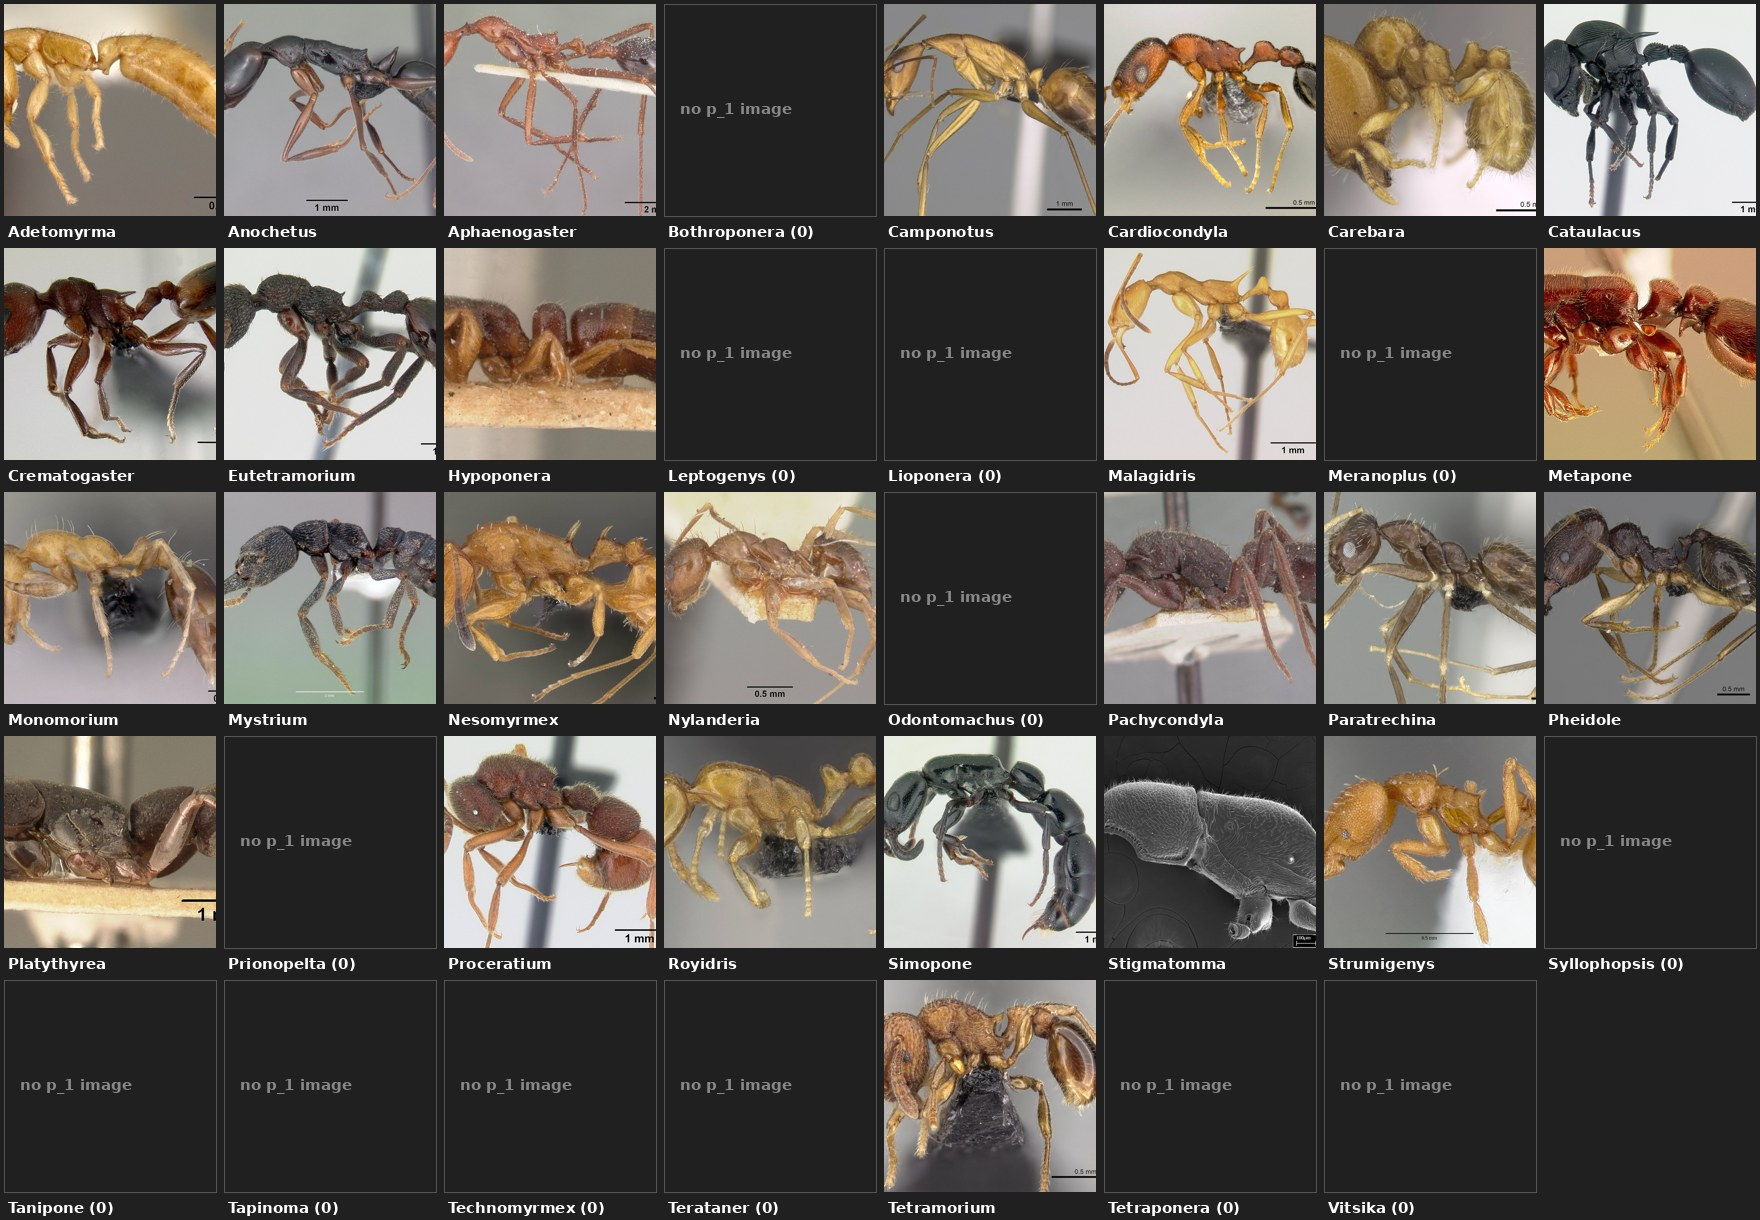
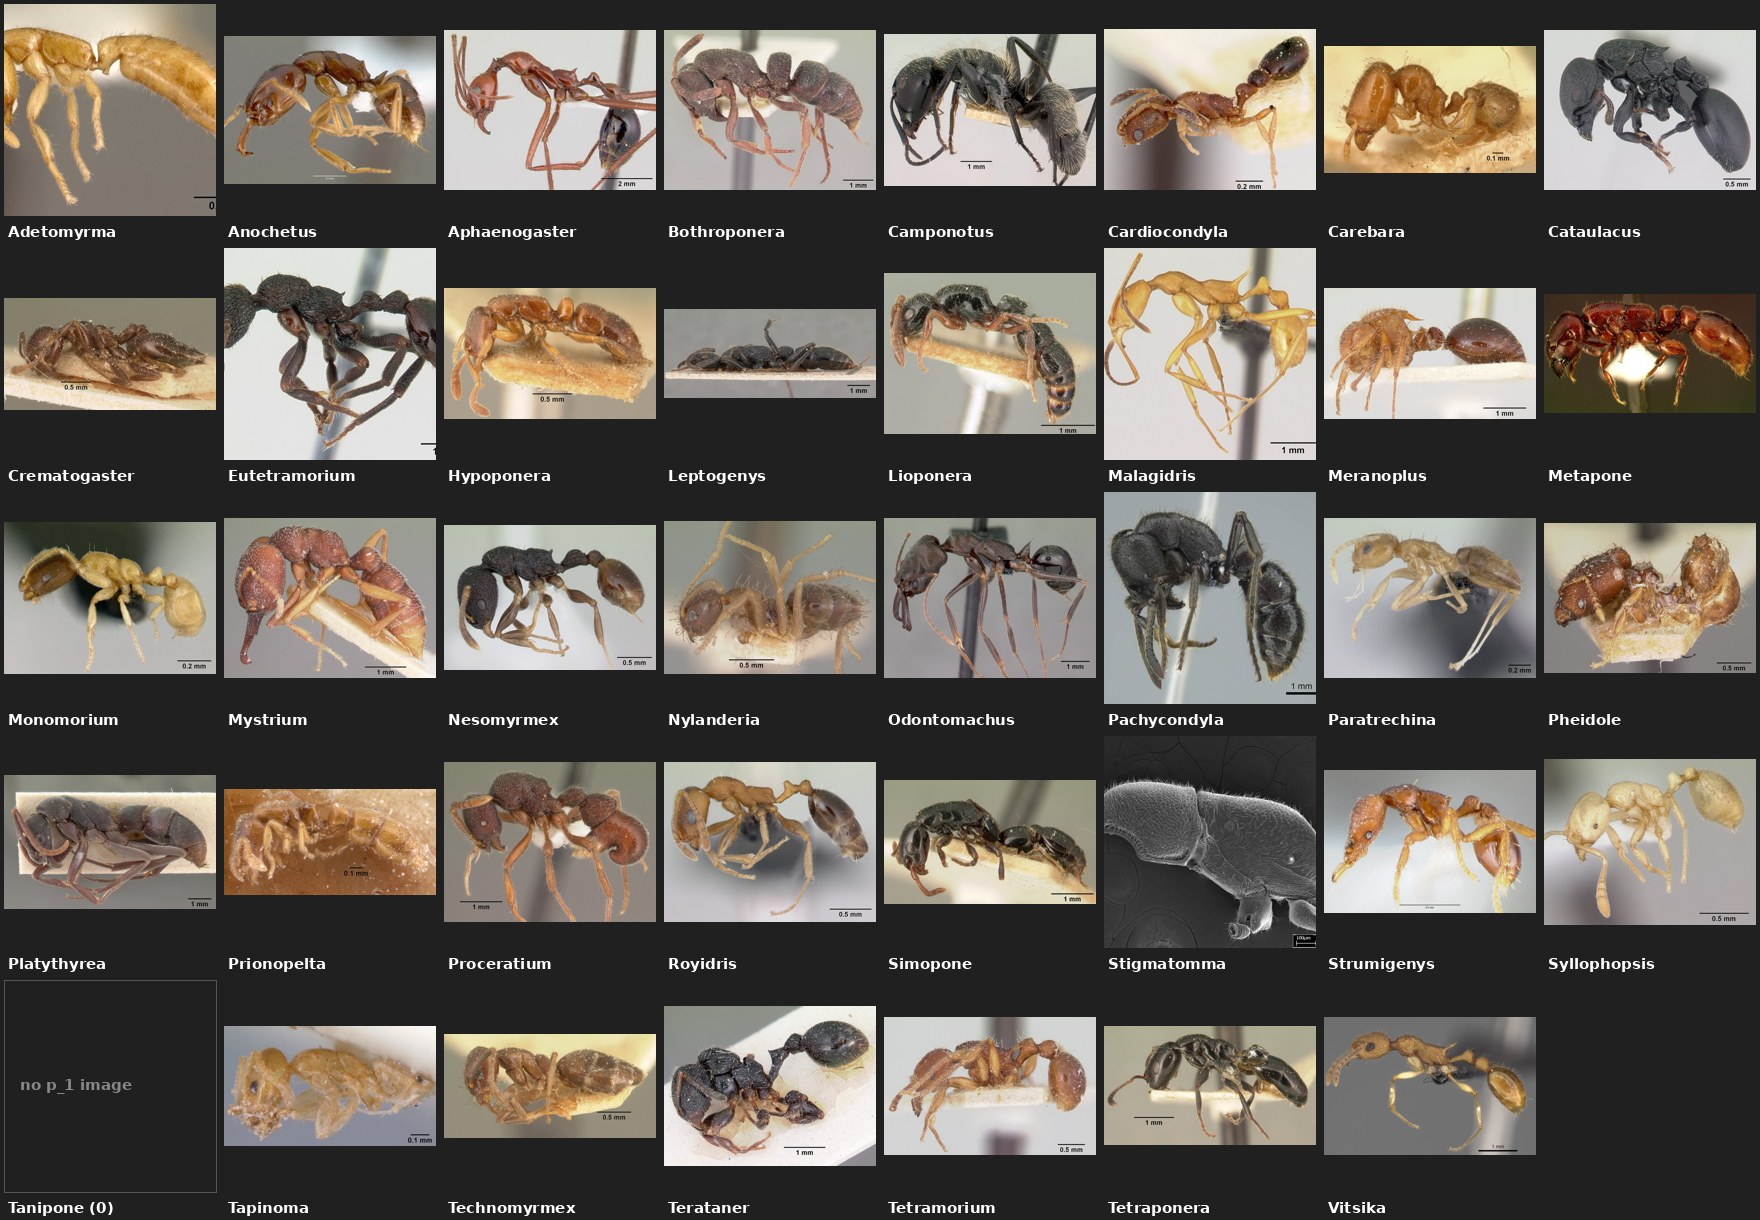
Commons harvest complete: 1297/4354 images on disk, 27 genera at threshold
06_harvest_commons.py: category-based matching (33k titles), original-file
downloads with local 1024px downscale, Retry-After-aware backoff. All 1171
matched Commons files retrieved; refreshed p_1 contact sheet.

diff --git a/scripts/06_harvest_commons.py b/scripts/06_harvest_commons.py
@@ -1,0 +1,247 @@
+#!/usr/bin/env python3
+"""Fallback image source: Wikimedia Commons "Images from AntWeb" category.
+
+antweb.org blocks datacenter IPs outright and the GBIF image cache is cold
+(see reports/download_stats.md), but ~33k AntWeb images were bulk-uploaded to
+Commons years ago with titles like
+"Pachycondyla cambouei casent0451572 profile 1.jpg". Strategy:
+
+1. Enumerate the whole category once (500 titles/call, cached to
+   data/commons_files.txt).
+2. Parse specimen code / view / shot index from each title and join against
+   data/dataset.csv locally — no per-specimen search calls.
+3. For pending rows, pick the Commons file matching the row's view (profile
+   or dorsal), shot 1 preferred, lowest shot otherwise.
+4. Resolve URLs in batches of 50 via prop=imageinfo (1024px thumb) and
+   download from upload.wikimedia.org (not Cloudflare-gated).
+
+Resumable: rows with a valid image on disk are skipped; outcomes go to
+data/download_status_commons.csv. Commons AntWeb files are CC BY-SA — same
+terms as AntWeb's own media.
+"""
+from __future__ import annotations
+
+import argparse
+import csv
+import logging
+import random
+import re
+import sys
+import time
+from pathlib import Path
+
+import pandas as pd
+import requests
+from PIL import Image
+from tqdm import tqdm
+
+sys.path.insert(0, str(Path(__file__).resolve().parent))
+from gbif_client import setup_logging  # noqa: E402
+
+ROOT = Path(__file__).resolve().parents[1]
+DATA = ROOT / "data"
+REPORTS = ROOT / "reports"
+
+API = "https://commons.wikimedia.org/w/api.php"
+CATEGORY = "Category:Images from AntWeb"
+HEADERS = {"User-Agent": "mg-ants-poc/0.1 (research POC; AntWeb images via Commons)"}
+THUMB_PX = 1024
+
+CODE_RE = re.compile(r"(casent[0-9][\w().-]*|antweb\d+)", re.IGNORECASE)
+VIEW_RE = re.compile(r"\b(profile|dorsal|head|label)\b(?:\s+(\d+))?")
+VIEW_LETTER = {"profile": "p", "dorsal": "d", "head": "h", "label": "l"}
+
+log = logging.getLogger("commons")
+
+
+def api_get(session: requests.Session, params: dict, tries: int = 6) -> dict:
+    backoff = 5.0
+    for attempt in range(tries):
+        resp = session.get(API, params={**params, "format": "json"},
+                           headers=HEADERS, timeout=60)
+        if resp.status_code == 429 or resp.status_code >= 500:
+            log.warning("HTTP %d from Commons API — retry in %.0fs", resp.status_code, backoff)
+            time.sleep(backoff)
+            backoff *= 2
+            continue
+        resp.raise_for_status()
+        return resp.json()
+    raise RuntimeError(f"Commons API kept failing after {tries} tries")
+
+
+def enumerate_category(session: requests.Session) -> list[str]:
+    cache = DATA / "commons_files.txt"
+    if cache.exists():
+        titles = cache.read_text(encoding="utf-8").splitlines()
+        log.info("category cache: %d titles from %s", len(titles), cache.name)
+        return titles
+    titles: list[str] = []
+    cont: dict = {}
+    while True:
+        r = api_get(session, {
+            "action": "query", "list": "categorymembers", "cmtitle": CATEGORY,
+            "cmtype": "file", "cmlimit": "500", **cont,
+        })
+        titles += [m["title"] for m in r["query"]["categorymembers"]]
+        if len(titles) % 5000 < 500:
+            log.info("enumerated %d titles...", len(titles))
+        if "continue" in r:
+            cont = r["continue"]
+            time.sleep(0.3)
+        else:
+            break
+    cache.write_text("\n".join(titles), encoding="utf-8")
+    log.info("category enumerated: %d titles (cached)", len(titles))
+    return titles
+
+
+def parse_title(title: str) -> tuple[str, str | None, int] | None:
+    """'File:Genus species casent0451572 profile 1.jpg' -> (code, view, shot)."""
+    t = title.removeprefix("File:").lower()
+    t = re.sub(r"\.jpe?g$", "", t)
+    m = CODE_RE.search(t)
+    if not m:
+        return None
+    view, shot = None, 1
+    mv = VIEW_RE.search(t)
+    if mv:
+        view = VIEW_LETTER[mv.group(1)]
+        shot = int(mv.group(2) or 1)
+    return m.group(1), view, shot
+
+
+def resolve_urls(session: requests.Session, titles: list[str]) -> dict[str, str]:
+    """Batch prop=imageinfo: title -> ORIGINAL file URL. On-demand thumbnails
+    (iiurlwidth) get heavily 429-throttled; originals are cache-served.
+    We downscale locally instead."""
+    urls: dict[str, str] = {}
+    for i in range(0, len(titles), 50):
+        batch = titles[i:i + 50]
+        r = api_get(session, {
+            "action": "query", "titles": "|".join(batch),
+            "prop": "imageinfo", "iiprop": "url",
+        })
+        normalized = {n["to"]: n["from"] for n in r["query"].get("normalized", [])}
+        for page in r["query"]["pages"].values():
+            title = normalized.get(page.get("title"), page.get("title"))
+            info = (page.get("imageinfo") or [{}])[0]
+            url = info.get("url")
+            if url:
+                urls[title] = url
+        time.sleep(0.5)
+    return urls
+
+
+def download_with_backoff(session: requests.Session, url: str,
+                          tries: int = 8) -> requests.Response:
+    backoff = 30.0
+    for attempt in range(tries):
+        resp = session.get(url, headers=HEADERS, timeout=120)
+        if resp.status_code == 429 or resp.status_code >= 500:
+            wait = min(900.0, float(resp.headers.get("Retry-After") or backoff))
+            log.warning("HTTP %d on download — waiting %.0fs", resp.status_code, wait)
+            time.sleep(wait)
+            backoff *= 2
+            continue
+        resp.raise_for_status()
+        return resp
+    resp.raise_for_status()
+    return resp
+
+
+def is_valid_image(path: Path) -> bool:
+    try:
+        with Image.open(path) as im:
+            im.verify()
+        return True
+    except Exception:
+        return False
+
+
+def main() -> None:
+    parser = argparse.ArgumentParser(description=__doc__)
+    parser.add_argument("--limit", type=int, default=0,
+                        help="only process the first N pending rows (0 = all)")
+    args = parser.parse_args()
+
+    setup_logging(REPORTS / "06_harvest_commons.log")
+    session = requests.Session()
+
+    df = pd.read_csv(DATA / "dataset.csv")
+    pending = df[df["image_path"].map(
+        lambda p: not ((ROOT / p).exists() and is_valid_image(ROOT / p)))]
+    if args.limit:
+        pending = pending.head(args.limit)
+    log.info("dataset rows: %d, pending (no valid image on disk): %d", len(df), len(pending))
+
+    titles = enumerate_category(session)
+
+    # specimen_code -> list of (view, shot, title)
+    by_code: dict[str, list[tuple[str | None, int, str]]] = {}
+    for title in titles:
+        parsed = parse_title(title)
+        if parsed:
+            code, view, shot = parsed
+            by_code.setdefault(code, []).append((view, shot, title))
+    log.info("parsed %d distinct specimen codes from Commons titles", len(by_code))
+
+    # choose the best-matching Commons file for each pending row
+    chosen: list[tuple[pd.Series, str]] = []
+    for _, row in pending.iterrows():
+        cands = by_code.get(str(row["specimen_code"]).lower(), [])
+        same_view = [(shot, t) for view, shot, t in cands if view == row["view"]]
+        if not same_view:
+            continue
+        same_view.sort()  # shot 1 first, then lowest shot
+        chosen.append((row, same_view[0][1]))
+    log.info("Commons match for %d of %d pending rows", len(chosen), len(pending))
+
+    urls = resolve_urls(session, [t for _, t in chosen])
+    log.info("resolved %d file URLs", len(urls))
+
+    downloaded = failed = 0
+    outcomes: list[dict] = []
+    for row, title in tqdm(chosen, unit="img"):
+        outcome = {"specimen_code": row["specimen_code"], "genus": row["genus"],
+                   "commons_title": title, "image_path": row["image_path"],
+                   "ok": False, "error": ""}
+        url = urls.get(title)
+        if not url:
+            outcome["error"] = "no URL resolved"
+            failed += 1
+            outcomes.append(outcome)
+            continue
+        dest = ROOT / str(row["image_path"])
+        dest.parent.mkdir(parents=True, exist_ok=True)
+        try:
+            resp = download_with_backoff(session, url)
+            tmp = dest.with_suffix(".tmp")
+            tmp.write_bytes(resp.content)
+            if not is_valid_image(tmp):
+                tmp.unlink(missing_ok=True)
+                raise ValueError("Pillow validation failed")
+            with Image.open(tmp) as im:  # downscale locally to THUMB_PX max
+                im = im.convert("RGB")
+                im.thumbnail((THUMB_PX, THUMB_PX))
+                im.save(dest, "JPEG", quality=90)
+            tmp.unlink(missing_ok=True)
+            outcome["ok"] = True
+            downloaded += 1
+        except Exception as exc:
+            outcome["error"] = str(exc)
+            failed += 1
+        outcomes.append(outcome)
+        time.sleep(random.uniform(4.0, 6.0))
+
+    status_path = DATA / "download_status_commons.csv"
+    with status_path.open("w", newline="") as fh:
+        writer = csv.DictWriter(fh, fieldnames=list(outcomes[0].keys()) if outcomes
+                                else ["specimen_code", "genus", "commons_title",
+                                      "image_path", "ok", "error"])
+        writer.writeheader()
+        writer.writerows(outcomes)
+    log.info("done: %d downloaded, %d failed — status in %s", downloaded, failed, status_path)
+
+
+if __name__ == "__main__":
+    main()
